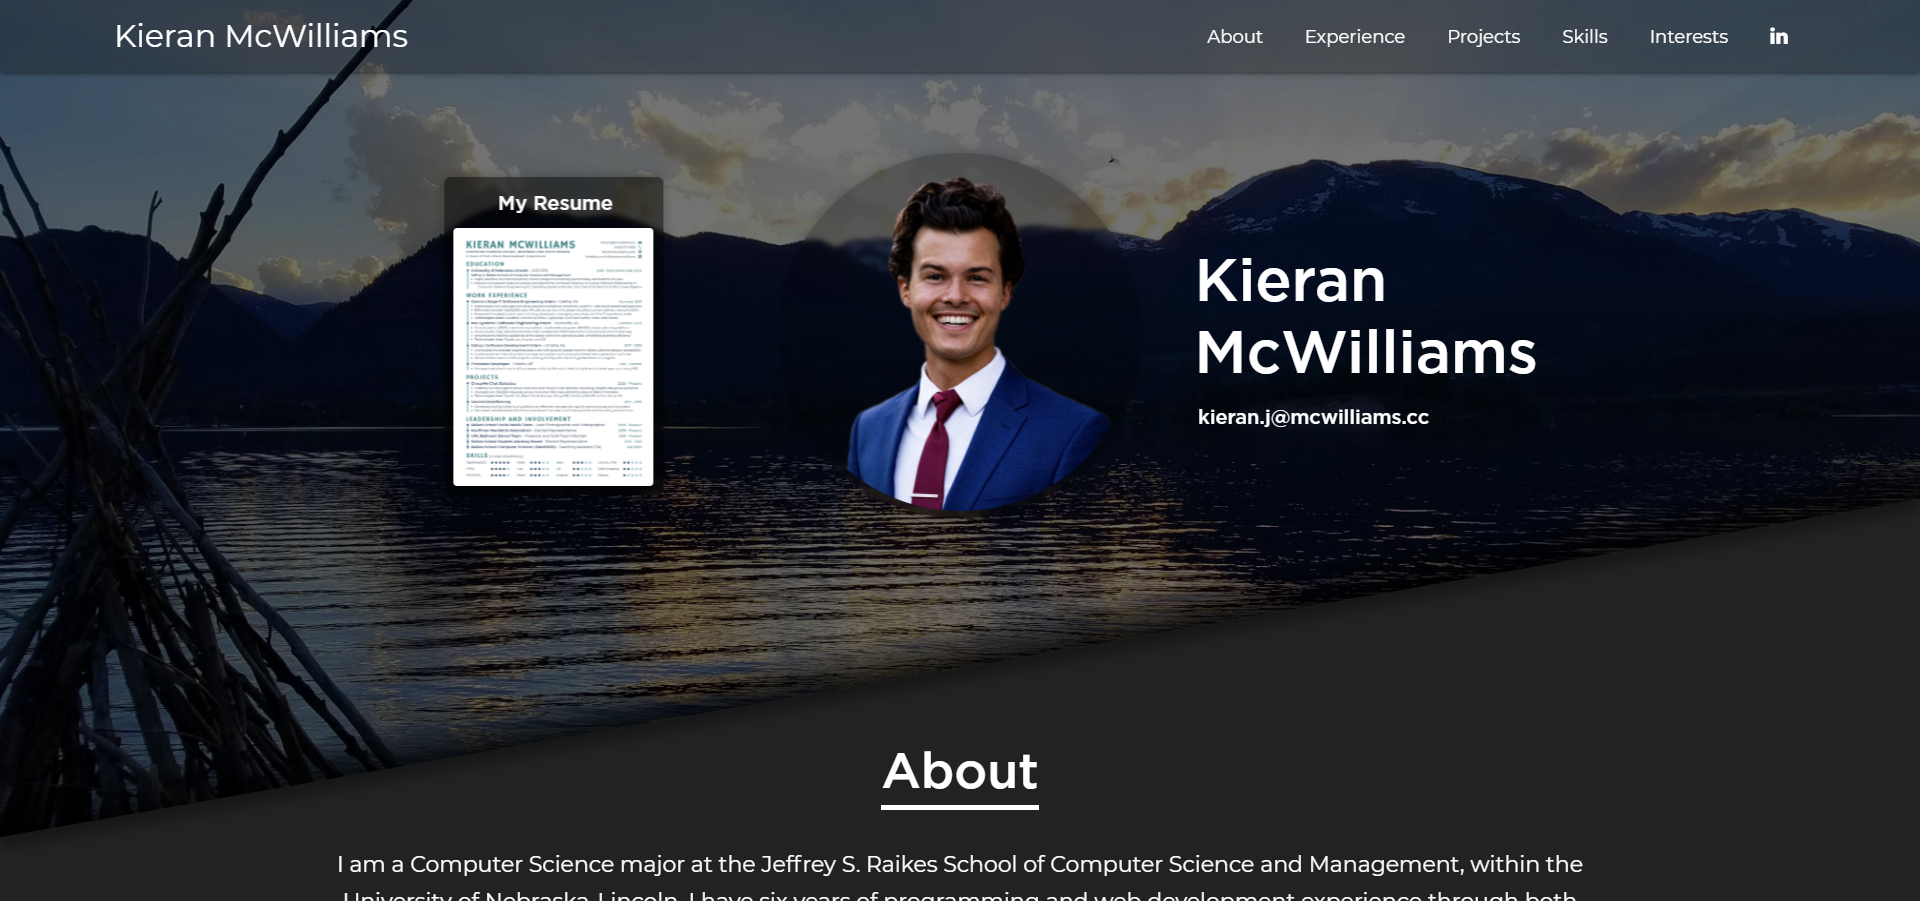
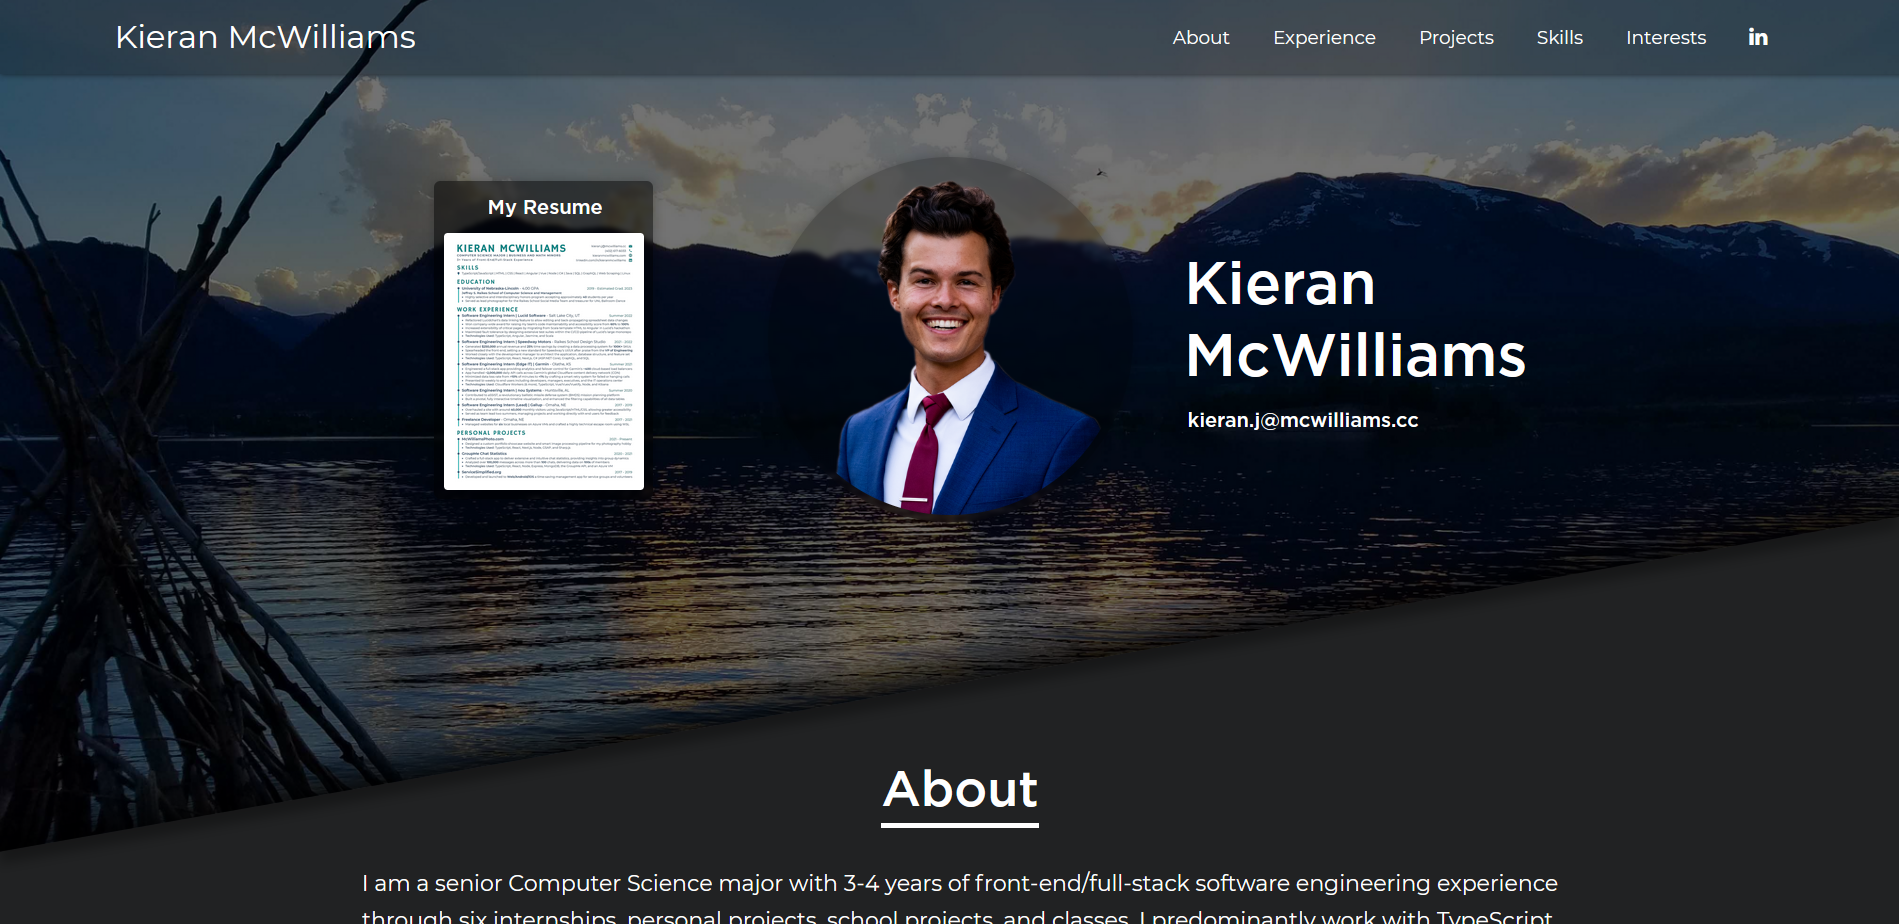
Updated to Fall 2022 with Latest Resume and Content

diff --git a/html/index.html b/html/index.html
@@ -38,7 +38,8 @@
           <a href="#skills" class="navbarButton">Skills</a>
           <a href="#interests" class="navbarButton">Interests</a>
           <a href="https://www.linkedin.com/in/kieranmcwilliams" class="navbarButton icon"><i class="fa fa-linkedin"></i></a>
-          <!-- <a href="http://bit.ly/kieran-resume-fall-2020" class="navbarButton icon"><i class="fa fa-file"></i></a> -->
+
+          <!-- <a href="http://bit.ly/kieran-resume-fall-2022" class="navbarButton icon"><i class="fa fa-file"></i></a> -->
           <!-- <a href="https://github.com/Maxmaxs5" class="navbarButton icon"><i class="fa fa-github"></i></a> -->
         </div>
 
@@ -72,8 +73,8 @@
       <div id="profileDivBackground" class="containerDiv">
         <div id="profileDiv">
           <div id="resumePictureContainer">
-            <p id="resumePictureHeader"><a href="https://bit.ly/kieran-resume-summer-2021">My Resume</a></p>
-            <a id="resumePicture" href="https://bit.ly/kieran-resume-summer-2021"></a>
+            <p id="resumePictureHeader"><a href="https://bit.ly/kieran-resume-fall-2022">My Resume</a></p>
+            <a id="resumePicture" href="https://bit.ly/kieran-resume-fall-2022"></a>
           </div>
 
           <div id="profilePictureNameEmailResumeContainer">
@@ -84,7 +85,7 @@
             <div id="nameEmailResumeContainer">
               <h3 id="nameHeader">Kieran<br>McWilliams</h3>
               <a id="email" href="mailto:kieran.j@mcwilliams.cc">kieran.j@mcwilliams.cc</a>
-              <a id="myResume" href="https://bit.ly/kieran-resume-summer-2021">My Resume</a>
+              <a id="myResume" href="https://bit.ly/kieran-resume-fall-2022">My Resume</a>
             </div>
           </div>
         </div>
@@ -99,8 +100,8 @@
         <h2 class="containerDivHeader">About</h2>
 
         <p id="aboutText">
-          I am a Computer Science major at the Jeffrey S. Raikes School of Computer Science and Management, within the University of Nebraska-Lincoln.
-          I have six years of programming and web development experience through both college and high-school internships, personal projects, and classes.
+          I am a senior Computer Science major with 3-4 years of front-end/full-stack software engineering experience through six internships, personal projects, school projects, and classes.
+          I predominantly work with TypeScript, React, Angular, Node, and C# (ASP.NET Core).
           I aspire to further the revolutionary advancements in technology and develop meaningful and lasting innovations to benefit the world.
         </p>
       </div>
@@ -111,40 +112,45 @@
           <h2 class="containerDivHeader">Work Experience</h2>
 
           <div class="innerExperienceProjectsDiv">
-            <h2 class="entryTitle">Lucid | Software Engineering Intern</h2>
+            <h2 class="entryTitle">Software Engineering Intern | Lucid Software</h2>
             <p class="entryYears">Salt Lake City, UT | Summer 2022</p>
   
             <br>
             <ul class="entryInfo">
-              <!-- <li></li>
-              <li><b>Technologies Used:</b> </li> -->
+              <li>Refactored Lucidchart's data linking feature to allow editing and back-propagating spreadsheet data changes</li>
+              <li>Won company-wide award for raising my team's code maintainability and accessibility score from <b>60%</b> to <b>100%</b></li>
+              <li>Increased extensibility of critical pages by migrating from Scala template HTML to Angular in Lucid's hackathon</li>
+              <li>Maximized fault tolerance by designing extensive test suites within the CI/CD pipeline of Lucid's large monorepo</li>
+              <li><b>Technologies Used:</b> TypeScript, Angular, Jasmine, and Scala</li>
             </ul>
           </div>
           <div class="innerExperienceProjectsDiv">
-            <h2 class="entryTitle">Speedway Motors | Raikes School Design Studio</h2>
-            <p class="entryYears">University of Nebraska - Lincoln | 2021 - 2022</p>
+            <h2 class="entryTitle">Software Engineering Intern | Speedway Motors</h2>
+            <p class="entryYears">UNL Raikes School Design Studio | 2021 - 2022</p>
   
             <br>
             <ul class="entryInfo">
               <li>Generated <b>$250,000</b> annual revenue and <b>25%</b> time savings by creating a data processing system for <b>100K+</b> SKUs</li>
-              <li>Spearheaded the front-end, setting the new standard for Speedway’s future interfaces after praise from the <b>VP</b></li>
-              <li><b>Technologies Used:</b> TypeScript, React, Next.js, C# (ASP.NET Core), GraphQL, and Azure DevOps</li>
+              <li>Spearheaded the front-end, setting a new standard for Speedway's UI/UX after praise from the <b>VP of Engineering</b></li>
+              <li>Worked closely with the development manager to architect the application, database structure, and feature set</li>
+              <li><b>Technologies Used:</b> TypeScript, React, Next.js, C# (ASP.NET Core), GraphQL, and SQL</li>
             </ul>
           </div>
           <div class="innerExperienceProjectsDiv">
-            <h2 class="entryTitle">Garmin | Software Engineering Intern</h2>
+            <h2 class="entryTitle">Software Engineering Intern (Edge IT) | Garmin</h2>
             <p class="entryYears">Olathe, KS | Summer 2021</p>
   
             <br>
             <ul class="entryInfo">
-              <li>Engineered a full-stack app providing analytics and failover control for Garmin’s <b>~400</b> cloud-based load balancers</li>
-              <li>Effectively handled <b>~2,000,000</b> daily API calls across Garmin’s global Cloudflare content delivery network (CDN)</li>
+              <li>Engineered a full-stack app providing analytics and failover control for Garmin's <b>~400</b> cloud-based load balancers</li>
+              <li>App handled <b>~2,000,000</b> daily API calls across Garmin's global Cloudflare content delivery network (CDN)</li>
+              <li>Minimized data loss rate from <b>&gt;10%</b> of minutes to <b>&lt;1%</b> by crafting a smart retry system for failed or hanging calls</li>
               <li>Presented bi-weekly to end users including developers, managers, executives, and the IT operations center</li>
               <li><b>Technologies Used:</b> Cloudflare Workers (& more), TypeScript, Vue/Vuex/Vuetify, Node, and Kibana</li>
             </ul>
           </div>
           <div class="innerExperienceProjectsDiv">
-            <h2 class="entryTitle">nou Systems | Software Engineering Intern</h2>
+            <h2 class="entryTitle">Software Engineering Intern | nou Systems</h2>
             <p class="entryYears">Huntsville, AL | Summer 2020</p>
   
             <br>
@@ -163,7 +169,7 @@
             <ul class="entryInfo">
               <li>Overhauled the coaching blog, a site with around <b>40,000</b> monthly visitors, allowing greater accessibility</li>
               <li>Implemented an internal student management system and a strengths-based team generaton optimizer</li>
-              <li>Served as team lead on both projects, working directly with clients to get feedback on progress</li>
+              <li>Served as team lead two summers, managing projects and working directly with end users for feedback</li>
               <li><b>Technologies Used:</b> JavaScript, HTML/CSS, Node, Puppeteer, and C#</li>
             </ul>
           </div>
@@ -205,7 +211,7 @@
           </div>
           <div class="innerExperienceProjectsDiv">
             <h2 class="entryTitle">GroupMe Chat Statistics</h2>
-            <p class="entryYears">2020 - Present</p>
+            <p class="entryYears">2020 - 2021</p>
   
             <br>
             <ul class="entryInfo">
@@ -248,11 +254,11 @@
           <div id="innerSkillsDiv">
             <div class="proficiencyDiv">
               <h2 class="proficiencyHeader">Proficient:</h2>
-              <p class="proficiencyText">TypeScript/JS, HTML/CSS, Node, React, Angular, Vue</p>
+              <p class="proficiencyText">TypeScript/JavaScript, HTML, CSS, React, Angular, Vue, Node, C#</p>
             </div>
             <div class="proficiencyDiv">
               <h2 class="proficiencyHeader">Intermediate Proficiency:</h2>
-              <p class="proficiencyText">C#, Java, Linux, GraphQL, Web Scraping, Kibana, MongoDB, C, R, Python</p>
+              <p class="proficiencyText">Java, SQL, GraphQL, Web Scraping, Linux, MongoDB, C, R, Python</p>
             </div>
           </div>
         </div>
@@ -269,11 +275,11 @@
           </div>
           <div class="eachInterestDiv">
             <h2 class="interestHeader">Timelapsing and Videography</h2>
-            <p class="interestText">I have always been fascinated by the beauty and wonder of nature. I even built my own timelapsing setup from scratch using an Arduino and other special camera accessories. I then edit and finalize them through Lightroom, Photoshop, and Premiere Pro, evidenced in <a href="https://youtu.be/UJ8Q9-o8UwI">The Glorious Grind</a> and <a href="https://youtu.be/9mzfoRfPZiw">Florida Trip Slow-Mo</a>.
+            <p class="interestText">I have always been fascinated by the beauty and wonder of nature. I even built my own timelapsing setup from scratch using an Arduino and other accessories. I then edit and finalize them through Lightroom, Photoshop, and Premiere Pro, evidenced in <a href="https://youtu.be/UJ8Q9-o8UwI">The Glorious Grind</a> and <a href="https://youtu.be/9mzfoRfPZiw">Florida Trip Slow-Mo</a>.
           </div>
           <div class="eachInterestDiv">
             <h2 class="interestHeader">Piano and Music</h2>
-            <p class="interestText">I have played piano since the age of 8, always enjoying the beauty of music and building neural connections, even playing some songs blindfolded. You can view my current repertoire on YouTube <a href="https://www.youtube.com/playlist?list=PLnfurFeNccJtVRPSF-hjuwY2bJ7h5oNHz">here</a>. I also composed two original pieces of music, <a href="https://youtu.be/fcAefgC-RQk">Whitewater</a> and the soundtrack for <a href="https://youtu.be/UJ8Q9-o8UwI">The Glorious Grind</a>.
+            <p class="interestText">I have played piano since the age of 8, always enjoying the beauty of music and building neural connections, even playing some songs blindfolded. You can view my current repertoire playlist on <a href="https://www.youtube.com/playlist?list=PLnfurFeNccJtVRPSF-hjuwY2bJ7h5oNHz">YouTube</a>. I also composed two original pieces of music, <a href="https://youtu.be/fcAefgC-RQk">Whitewater</a> and the soundtrack for <a href="https://youtu.be/UJ8Q9-o8UwI">The Glorious Grind</a>.
           </div>
           <div class="eachInterestDiv">
             <h2 class="interestHeader">Service and Involvement</h2>
@@ -302,7 +308,7 @@
           <p class="footerInfo">Available Upon Request</p>
 
           <br>
-          <p class="footerInfo"><a href="http://bit.ly/kieran-resume-fall-2020">My Resume</a></p>
+          <p class="footerInfo"><a href="http://bit.ly/kieran-resume-fall-2022">My Resume</a></p>
         </div>
         <div class="innerFooterDiv">
           <p class="footerText">Find Me Online:</p>

diff --git a/html/index.js b/html/index.js
@@ -1,6 +1,6 @@
 
 
-//Gets yPosition of element from top of entire page, using all parents
+// Gets yPosition of element from top of entire page, using all parents
 function getPosition(element) {
   var yPosition = 0;
 
@@ -12,7 +12,7 @@ function getPosition(element) {
   return yPosition;
 }
 
-//Event listeners for resizing navbar on scroll or resize and highlighting current sections with buttons
+// Event listeners for resizing navbar on scroll or resize and highlighting current sections with buttons
 window.addEventListener("scroll", function() {
   navbarUpdates();
 });
@@ -21,12 +21,6 @@ window.addEventListener("resize", function() {
 });
 
 var navbarUpdates = function() {
-  //Testing showing scroll and device dimensions
-  document.getElementById("testScroll").innerHTML = window.pageYOffset;
-  document.getElementById("testWidth").innerHTML = document.body.clientWidth;
-  document.getElementById("testWidth2").innerHTML = window.innerWidth;
-  document.getElementById("testHeight").innerHTML = window.innerHeight;
-
   var pageYOffset = window.pageYOffset;
 
   var navbarItems = [
@@ -39,7 +33,7 @@ var navbarUpdates = function() {
   ];
   var navbarButtons = document.getElementsByClassName("navbarButton");
 
-  //Add navbar buttons to array
+  // Add navbar buttons to array
   navbarItems = navbarItems.concat(Array.from(navbarButtons));
 
   // // If scrolled or always on mobile
@@ -109,7 +103,6 @@ var navbarUpdates = function() {
   }
 }
 
-//Run at startup
 $(document).ready(function() {
   navbarUpdates();
 
